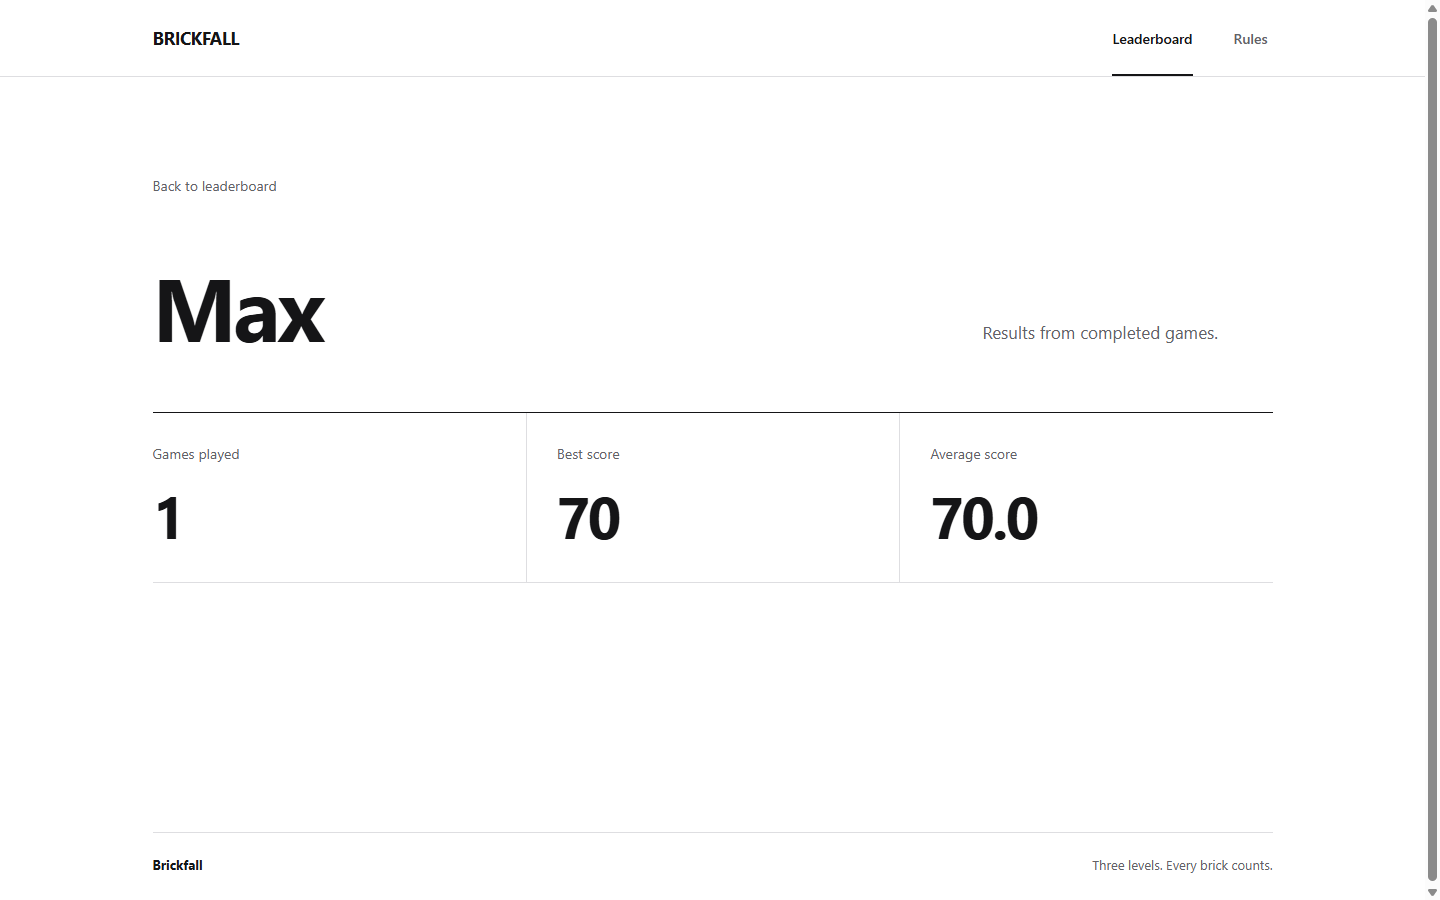
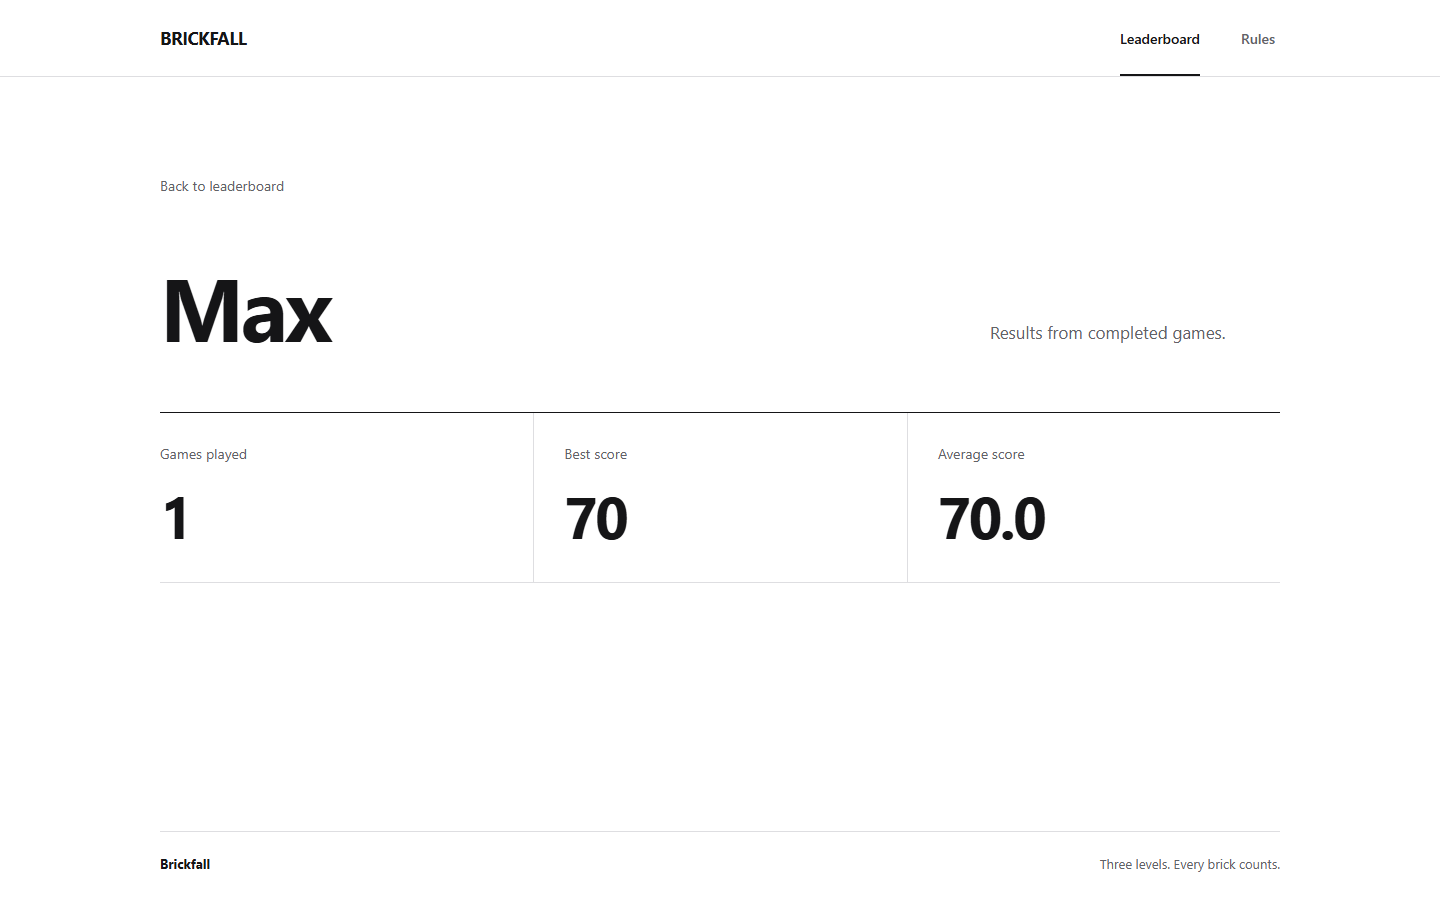
Remove unnecessary scroll on short site pages

diff --git a/static/style.css b/static/style.css
@@ -48,7 +48,7 @@ nav a[aria-current="page"], nav a.section-current { border-bottom-color: var(--i
 main {
     width: 100%;
     max-width: calc(var(--content-width) + 80px);
-    min-height: calc(100vh - 145px);
+    min-height: calc(100vh - 146px);
     margin: 0 auto;
     padding: 96px 40px 112px;
 }
@@ -110,7 +110,7 @@ kbd { display: inline-block; min-width: 25px; padding: 1px 6px; border: 1px soli
 }
 @media (max-width: 760px) {
     .header-content { min-height: 68px; padding: 0 24px; }
-    main { min-height: calc(100vh - 136px); padding: 68px 24px 88px; }
+    main { min-height: calc(100vh - 138px); padding: 68px 24px 88px; }
     .page-heading { grid-template-columns: 1fr; gap: 24px; margin-bottom: 48px; }
     .description { max-width: 42ch; font-size: 16px; }
     .rules-section { grid-template-columns: 1fr; gap: 22px; padding: 34px 0 38px; }
